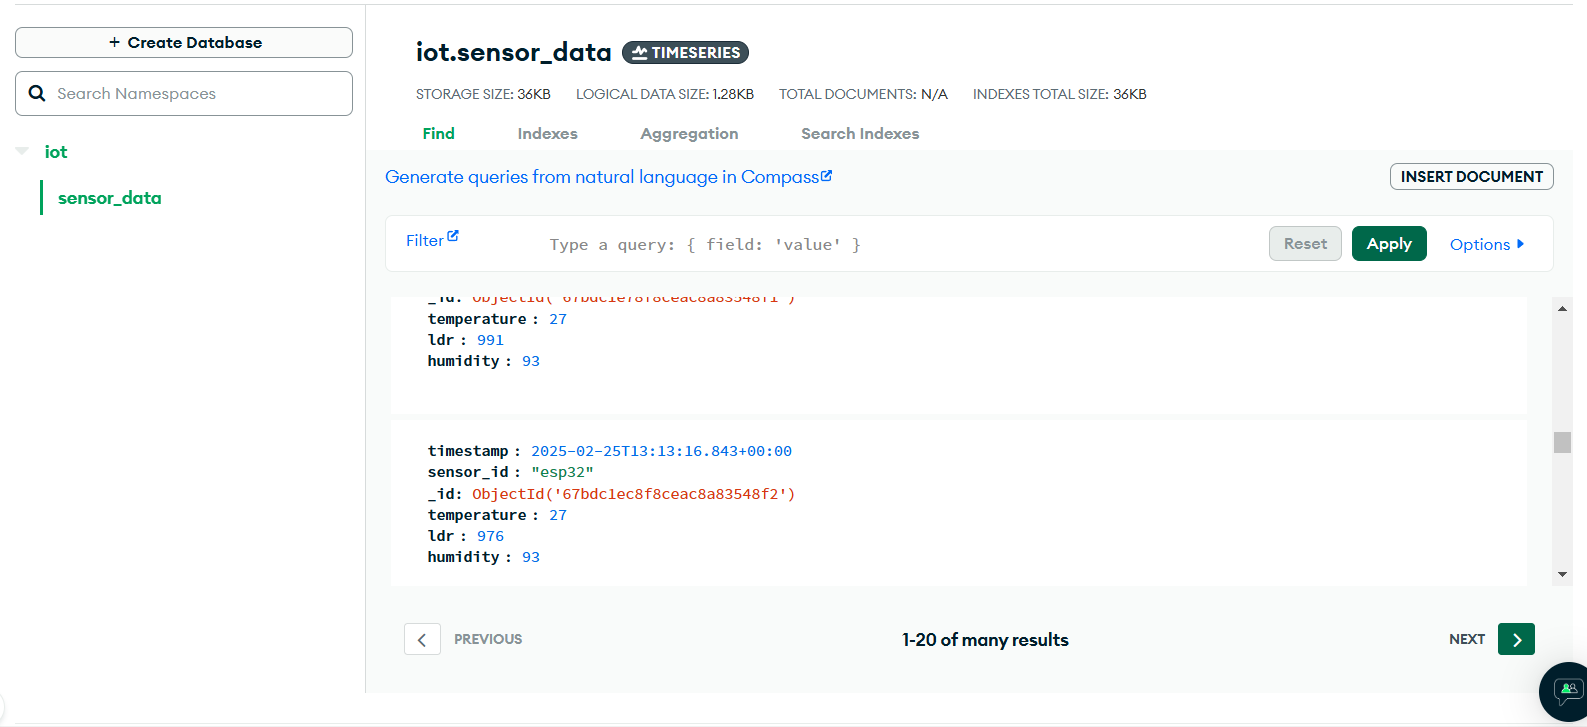
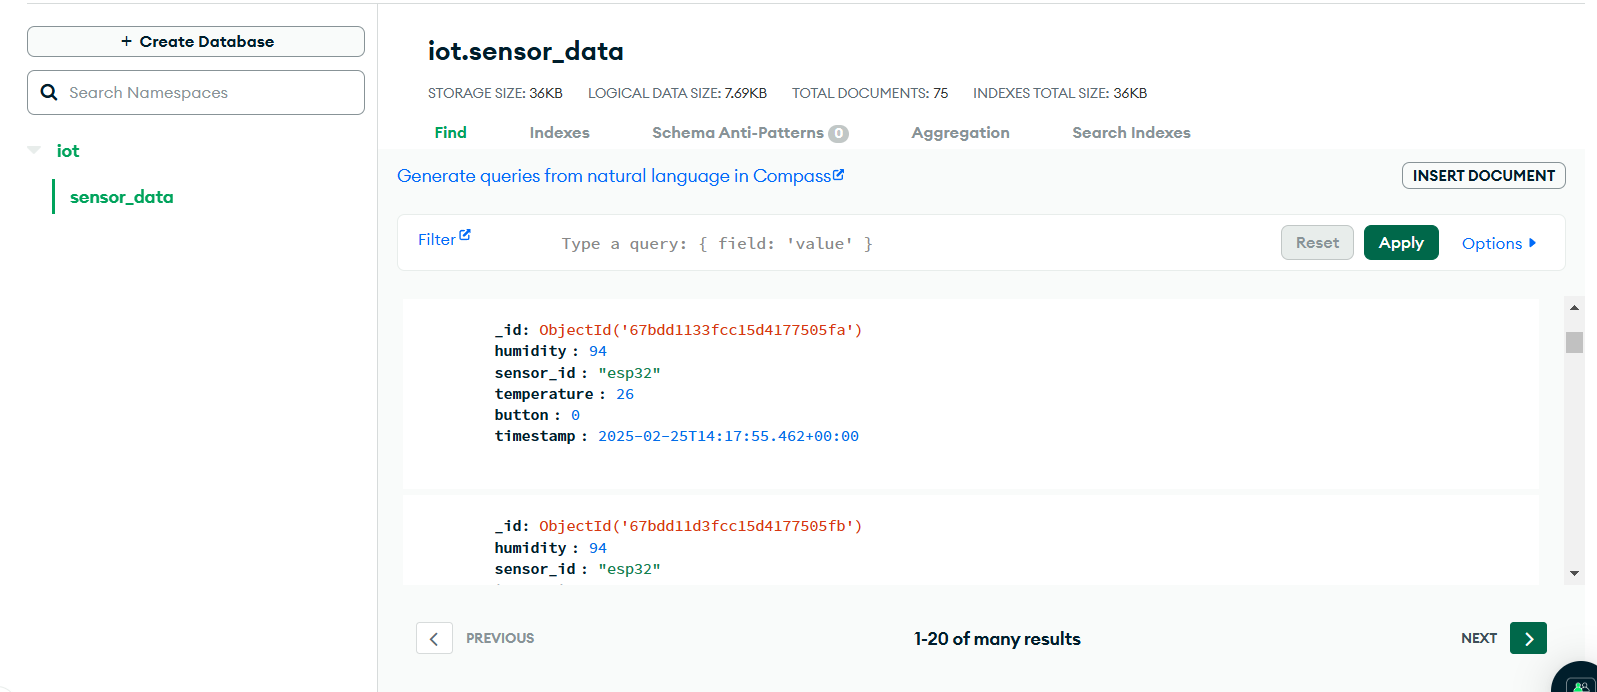
Updateee

diff --git a/esp32.py b/esp32.py
@@ -2,6 +2,7 @@ import network
 import time
 import dht
 import machine
+import json
 import urequests  # For HTTP requests
 from umqtt.simple import MQTTClient
 
@@ -30,45 +31,61 @@ while not wifi.isconnected():
 print("✅ Connected to WiFi! IP:", wifi.ifconfig()[0])
 
 # ✅ Initialize MQTT Client
-mqtt_client = MQTTClient("ESP32", UBIDOTS_BROKER, UBIDOTS_PORT, user=UBIDOTS_TOKEN, password=UBIDOTS_TOKEN)
+def connect_mqtt():
+    global mqtt_client
+    try:
+        mqtt_client = MQTTClient("ESP32", UBIDOTS_BROKER, UBIDOTS_PORT, user=UBIDOTS_TOKEN, password=UBIDOTS_TOKEN)
+        mqtt_client.connect()
+        print("✅ Connected to Ubidots MQTT!")
+    except Exception as e:
+        print("❌ Failed to connect to Ubidots MQTT:", e)
 
-try:
-    mqtt_client.connect()
-    print("✅ Connected to Ubidots MQTT!")
-except Exception as e:
-    print("❌ Failed to connect to Ubidots!", e)
+connect_mqtt()  # First connection
 
-# ✅ Initialize Sensors (DHT11 & LDR)
+# ✅ Initialize Sensors (DHT11 & Button)
 dht_pin = machine.Pin(4)
 sensor = dht.DHT11(dht_pin)
-ldr_pin = machine.ADC(machine.Pin(34))  # GPIO34 for LDR
-ldr_pin.atten(machine.ADC.ATTN_11DB)  # 0 - 3.3V range
+
+button_pin = machine.Pin(21, machine.Pin.IN, machine.Pin.PULL_UP)  # Button on GPIO21
 
 while True:
     try:
+        # ✅ DHT11 Read (Prevent Timeout)
+        time.sleep(2)  # Delay sebelum membaca sensor DHT
         sensor.measure()
         temp = sensor.temperature()
         hum = sensor.humidity()
-        ldr_value = ldr_pin.read()  # Read ADC (0-4095)
+
+        # ✅ Read Button State
+        button_state = button_pin.value()  # 1 = Tidak Ditekan, 0 = Ditekan
 
         # ✅ JSON Data
         data = {
             "sensor_id": "esp32",
             "temperature": temp,
             "humidity": hum,
-            "ldr": ldr_value
+            "button": button_state  # Tambahkan status tombol
         }
-        json_data = '{"temperature": ' + str(temp) + ', "humidity": ' + str(hum) + ', "ldr": ' + str(ldr_value) + '}'
+        json_data = json.dumps(data)  # Convert dictionary to JSON string
+        ubi_data = '{"temperature": ' + str(temp) + ', "humidity": ' + str(hum) + ', "button": ' + str(button_state) + '}'
 
-        # ✅ Send data to Ubidots via MQTT
-        mqtt_client.publish(MQTT_TOPIC, json_data)
-        print("📡 Sent to Ubidots:", json_data)
+        # ✅ Send Data to Ubidots via MQTT
+        try:
+            mqtt_client.publish(MQTT_TOPIC, ubi_data)
+            print("📡 Sent to Ubidots:", ubi_data)
+        except Exception as e:
+            print("❌ MQTT Error:", e)
+            connect_mqtt()  # Reconnect jika MQTT gagal
 
-        # ✅ Send data to Flask server via HTTP
-        response = urequests.post(FLASK_SERVER, json=data, headers={"Content-Type": "application/json"})
-        print("🌍 Sent to Flask:", response.text)
+        # ✅ Send Data to Flask Server
+        try:
+            response = urequests.post(FLASK_SERVER, json=data, headers={"Content-Type": "application/json"})
+            print("🌍 Sent to Flask:", response.text)
+            response.close()  # Close connection
+        except Exception as e:
+            print("❌ Flask Server Error:", e)
 
     except Exception as e:
-        print("❌ Sensor or Network Error:", e)
+        print("❌ Sensor Error:", e)
 
     time.sleep(5)

diff --git a/README.md b/README.md
@@ -1,5 +1,5 @@
 # Tugas Assignment 2 SIC - Team Bottlebound UNI331
-Sensor yang kami gunakan adalah DHT dan LDR
+Sensor yang kami gunakan adalah DHT11 dan push button
 
 ## API
 Untuk API nya kami gunakan flask yang dijalankan dengan mengexecute file ``server.py``
